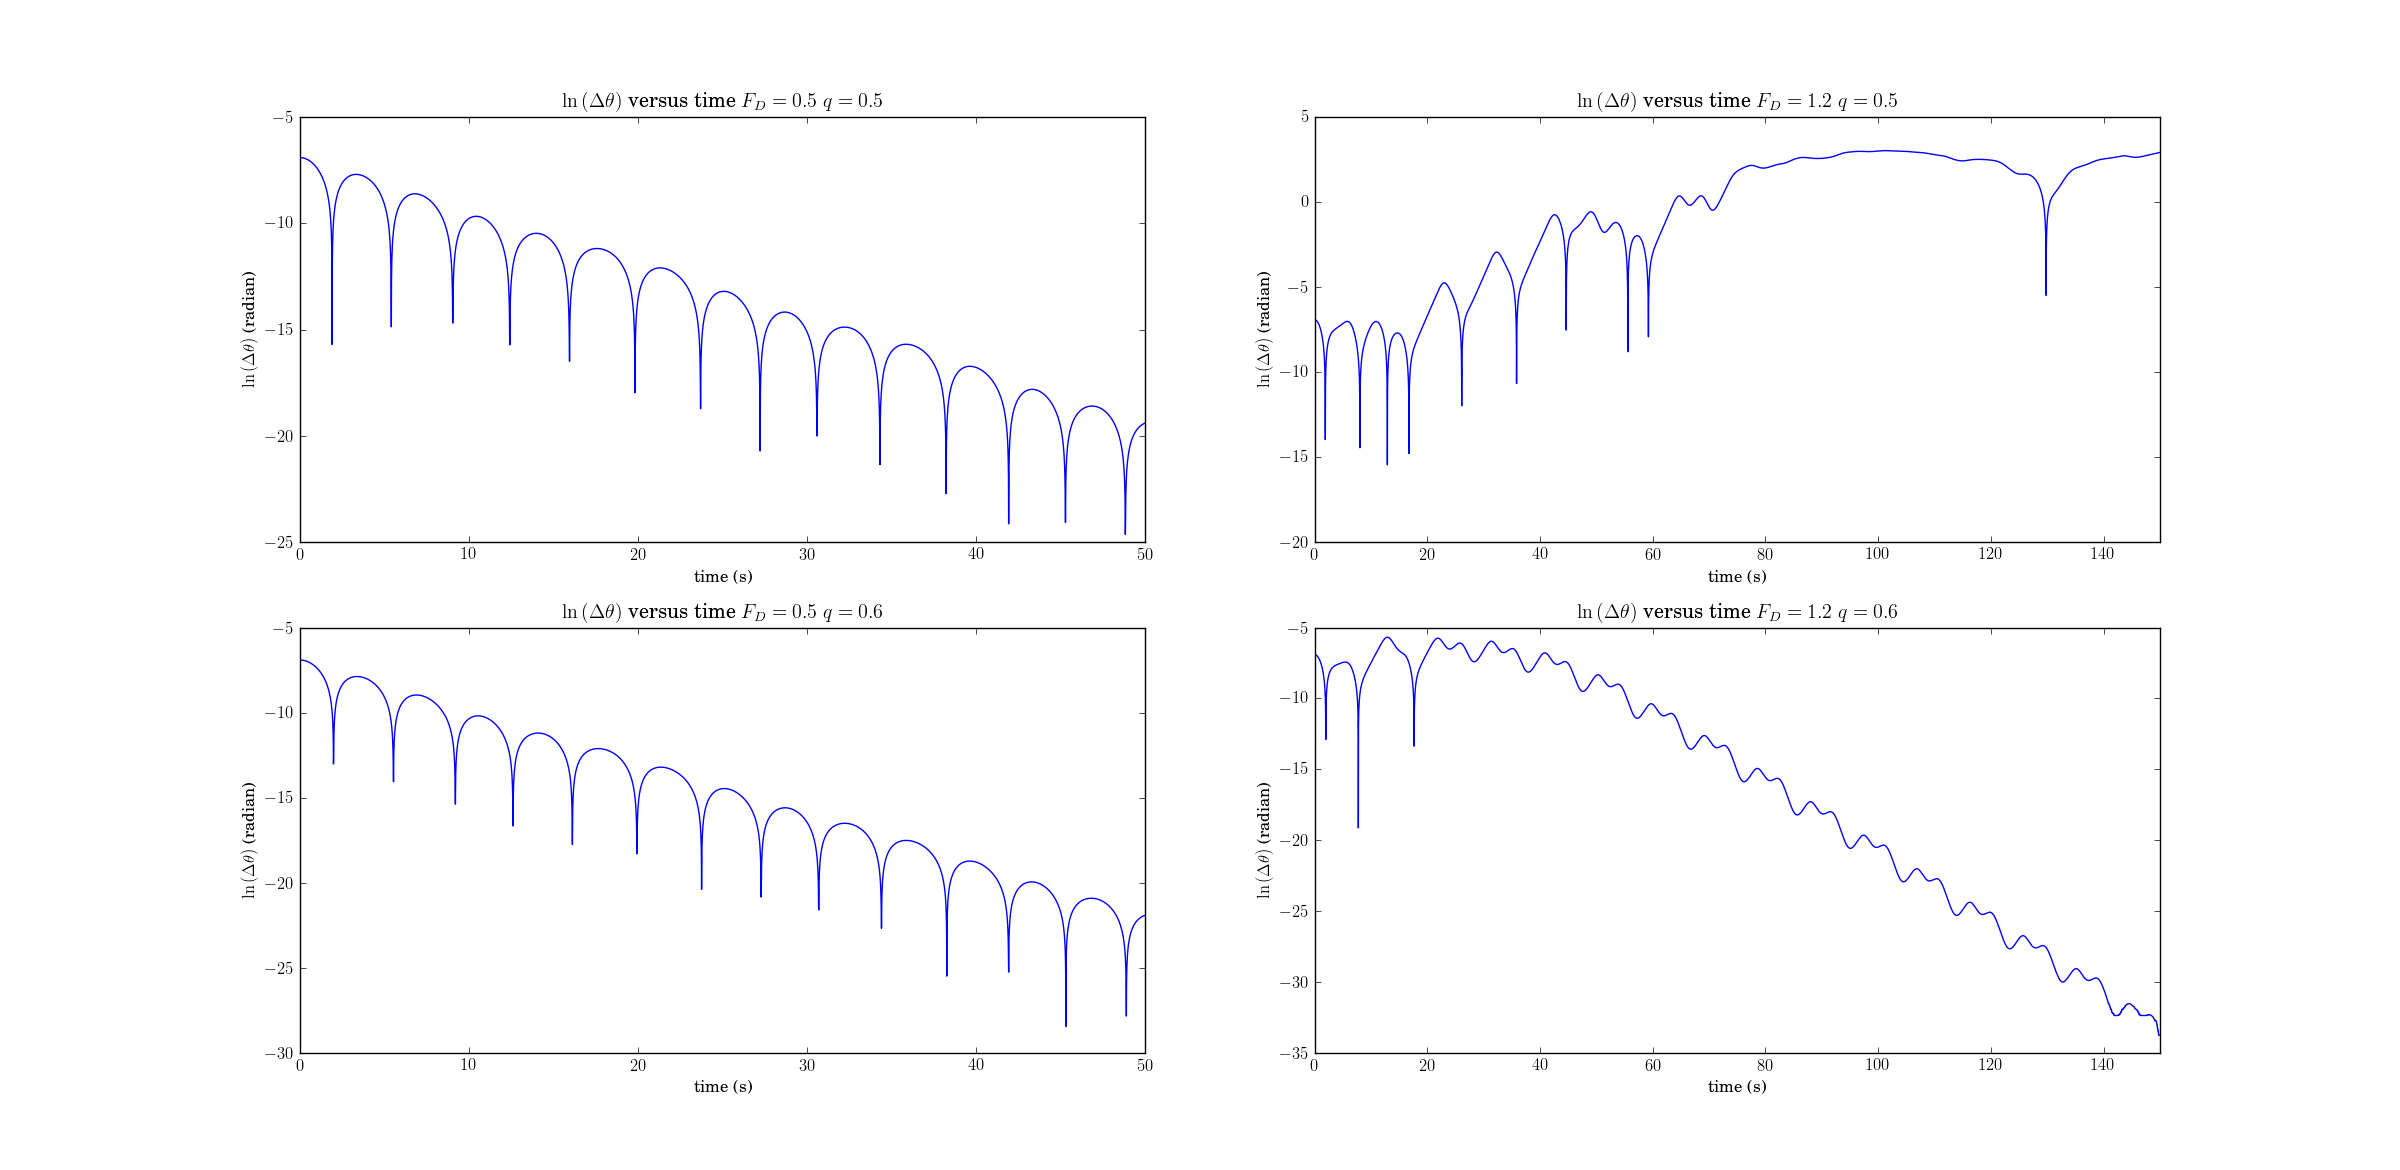
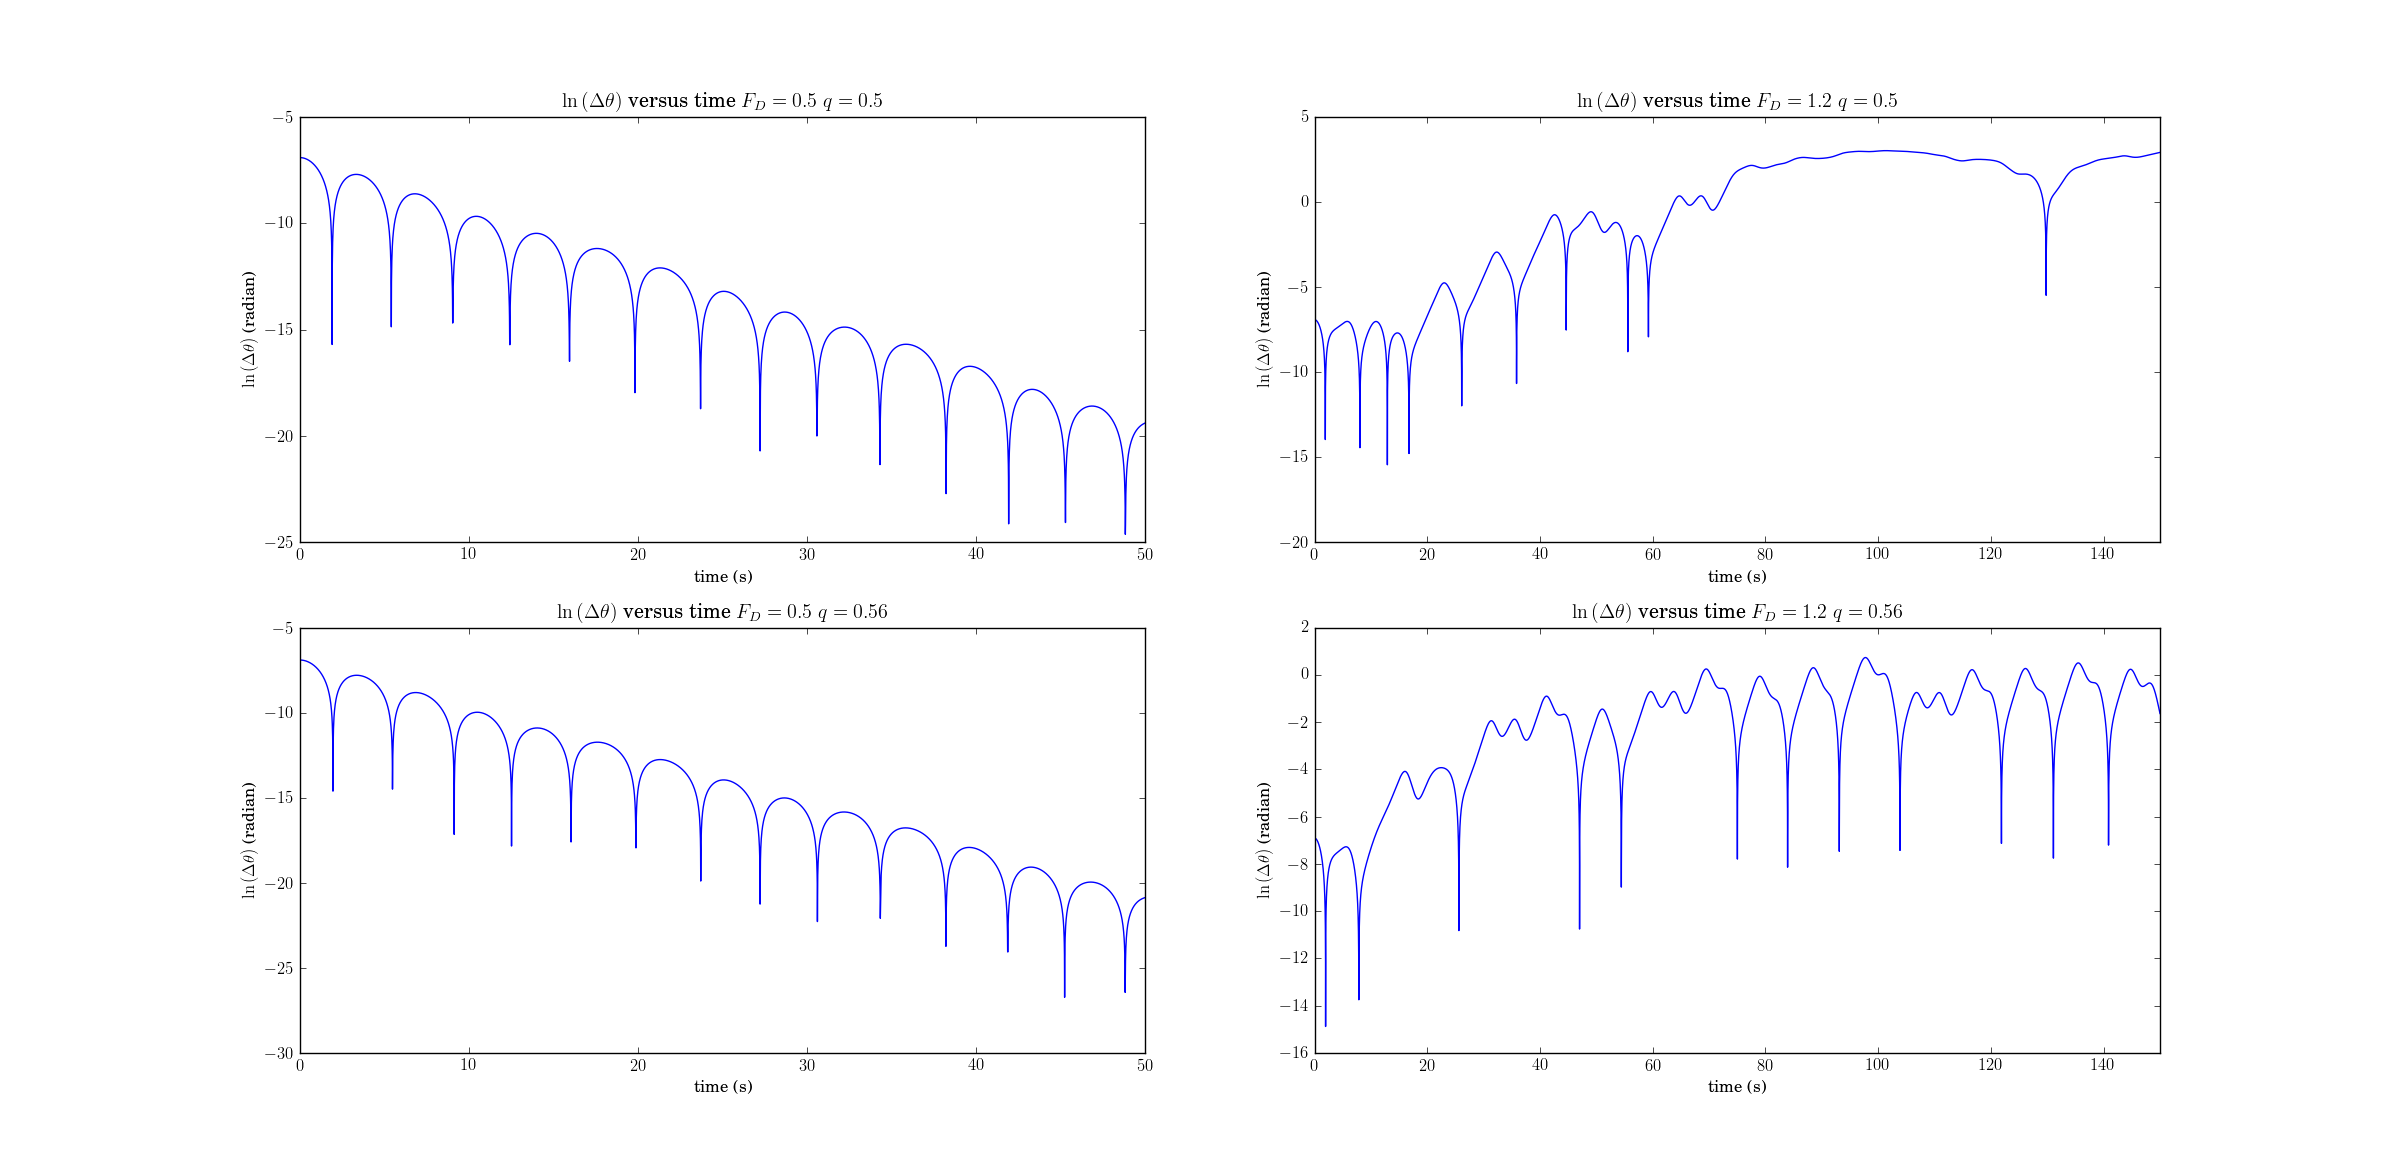
Add files via upload

diff --git a/Excercise_07/Excercise_07(1).py b/Excercise_07/Excercise_07(1).py
@@ -26,11 +26,11 @@ class physical_pendulum_changing_initial_angle:
 class physical_pendulum_changing_initial_angle_2(physical_pendulum_changing_initial_angle):
     def calculate(self):
         for i in range(self.steps):
-            midpoint_omega = self.omega[i] + 0.5 * (-math.sin(self.theta[i]) - 0.6 * self.omega[i] + self.FD * math.sin(0.66666666667 * self.t[i])) * self.dt
+            midpoint_omega = self.omega[i] + 0.5 * (-math.sin(self.theta[i]) - 0.56 * self.omega[i] + self.FD * math.sin(0.66666666667 * self.t[i])) * self.dt
             midpoint_time = self.t[i] + 0.5 * self.dt
             midpoint_theta = self.theta[i] + 0.5 * self.dt
             temporary_theta = self.theta[i] + midpoint_omega * self.dt
-            temporary_omega = self.omega[i] + (-math.sin(midpoint_theta) - 0.6 * midpoint_omega + self.FD * math.sin(0.66666666667 * midpoint_time)) * self.dt
+            temporary_omega = self.omega[i] + (-math.sin(midpoint_theta) - 0.56 * midpoint_omega + self.FD * math.sin(0.66666666667 * midpoint_time)) * self.dt
             self.theta.append(temporary_theta)
             self.omega.append(temporary_omega)
             self.t.append(self.t[i] + self.dt)
@@ -89,7 +89,7 @@ for i in range(len(p2_low_drive_2.theta)):
 
 plt.subplot(223)
 plt.plot(p1_low_drive_2.t, angle_difference_1_2)
-plt.title((r'$\ln \left (\Delta \theta   \right )$ versus time $F_D =0.5$ $q=0.6$'))
+plt.title((r'$\ln \left (\Delta \theta   \right )$ versus time $F_D =0.5$ $q=0.56$'))
 plt.ylabel(r'$\ln \left (\Delta \theta   \right )$ (radian)')
 plt.xlabel("time (s)")
 plt.xlim(0, 50)
@@ -107,7 +107,7 @@ for i in range(len(p1_high_drive_2.theta)):
 
 plt.subplot(224)
 plt.plot(p1_high_drive_2.t, angle_difference_2_2)
-plt.title((r'$\ln \left (\Delta \theta   \right )$ versus time $F_D =1.2$ $q=0.6$'))
+plt.title((r'$\ln \left (\Delta \theta   \right )$ versus time $F_D =1.2$ $q=0.56$'))
 plt.ylabel(r'$\ln \left (\Delta \theta   \right )$ (radian)')
 plt.xlabel("time (s)")
 plt.xlim(0, 150)
